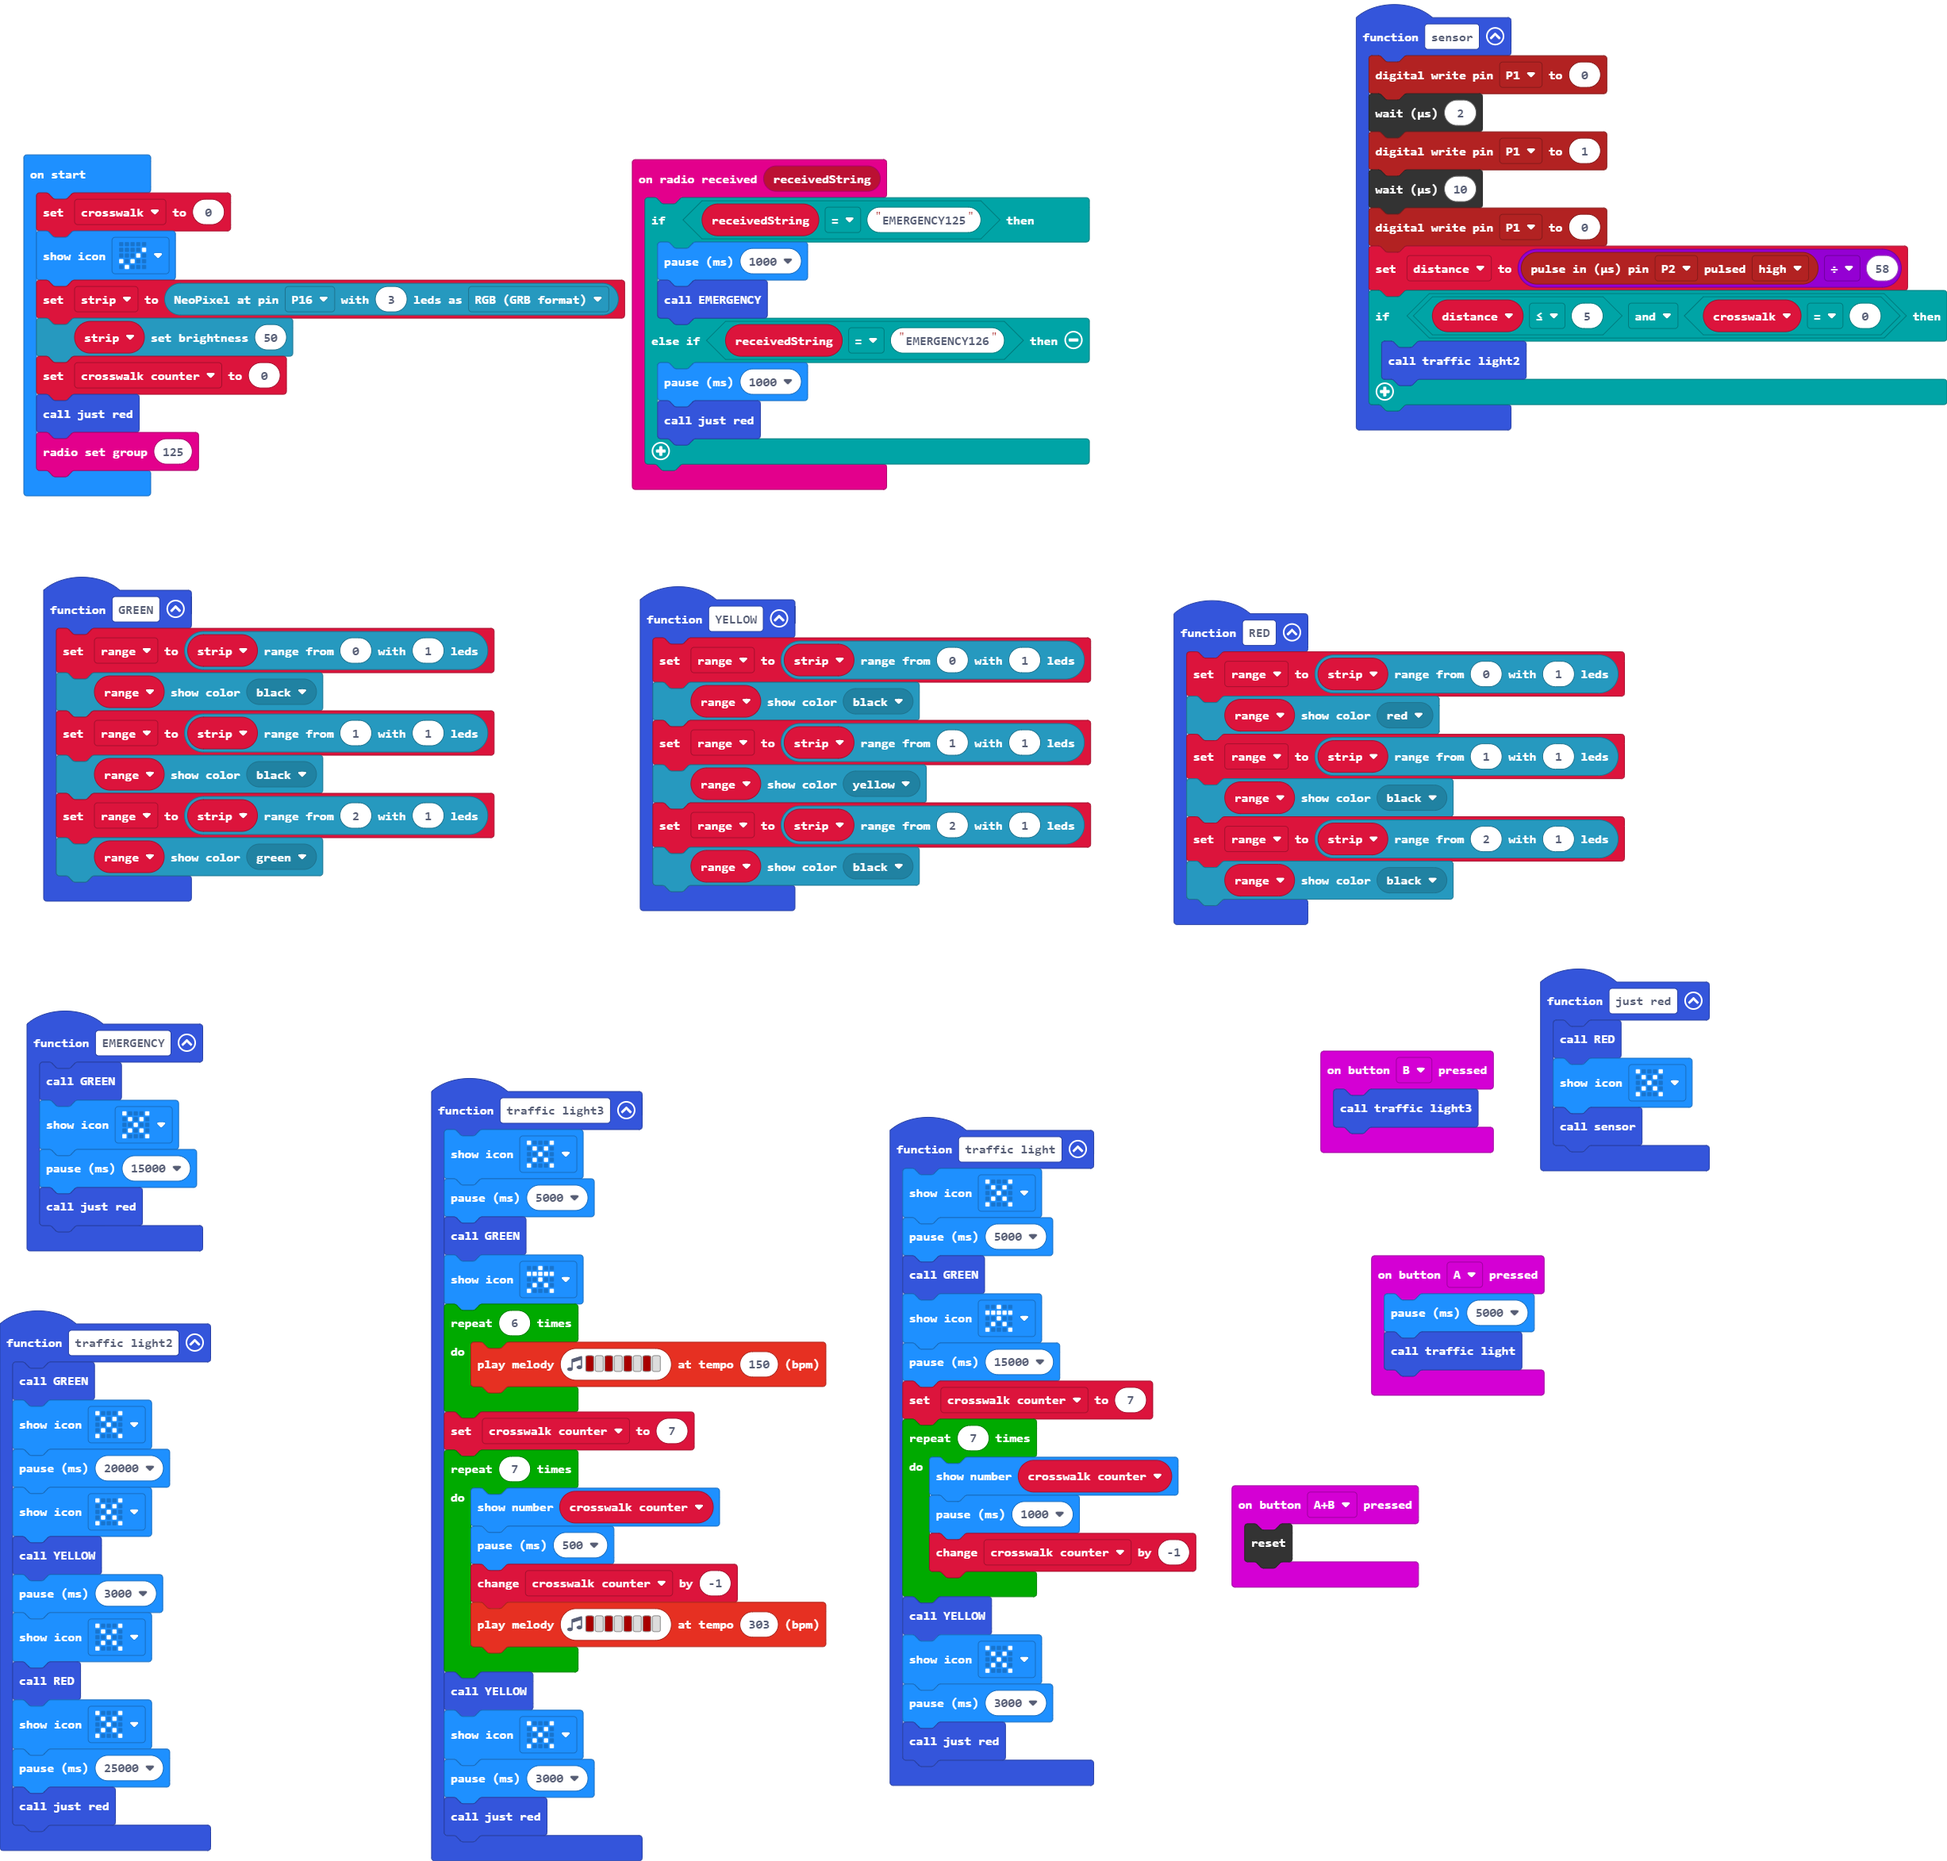
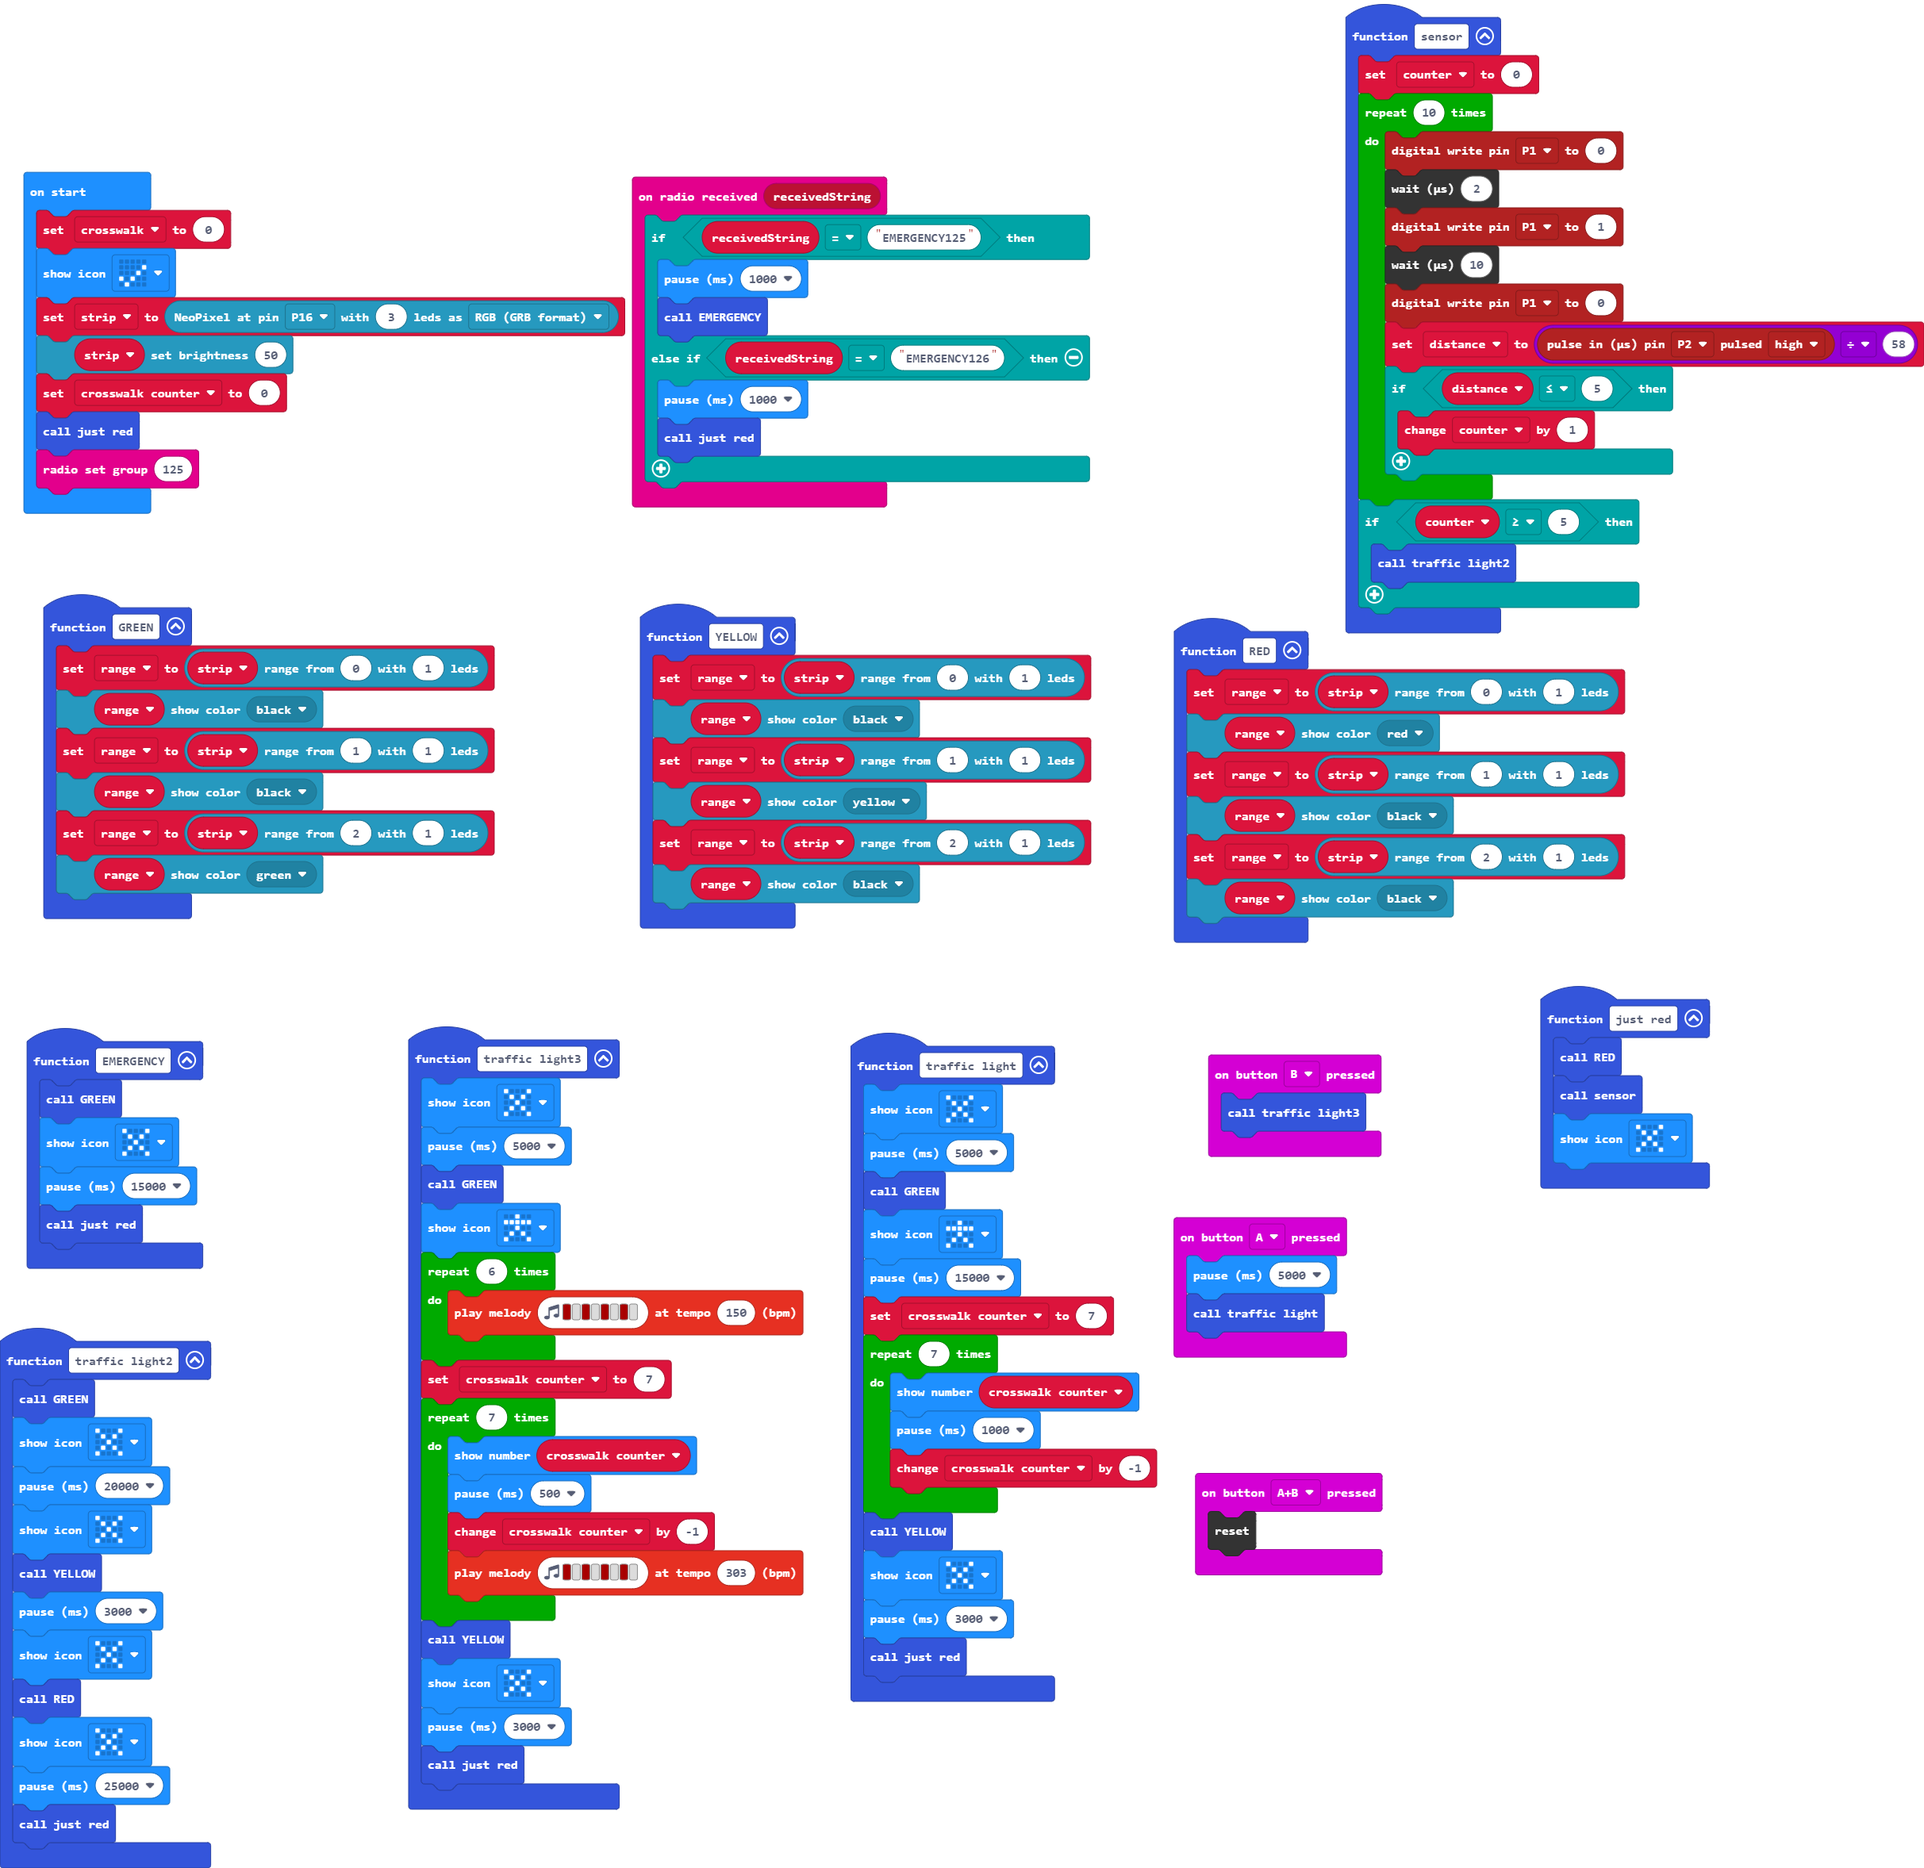
Update main.blocks, main.ts

diff --git a/main.ts b/main.ts
@@ -49,8 +49,8 @@ function RED () {
 }
 function just_red () {
     RED()
-    basic.showIcon(IconNames.No)
     sensor()
+    basic.showIcon(IconNames.No)
 }
 function traffic_light2 () {
     GREEN()
@@ -89,13 +89,19 @@ input.onButtonPressed(Button.B, function () {
     traffic_light3()
 })
 function sensor () {
-    pins.digitalWritePin(DigitalPin.P1, 0)
-    control.waitMicros(2)
-    pins.digitalWritePin(DigitalPin.P1, 1)
-    control.waitMicros(10)
-    pins.digitalWritePin(DigitalPin.P1, 0)
-    distance = pins.pulseIn(DigitalPin.P2, PulseValue.High) / 58
-    if (distance <= 5 && crosswalk == 0) {
+    counter = 0
+    for (let index = 0; index < 10; index++) {
+        pins.digitalWritePin(DigitalPin.P1, 0)
+        control.waitMicros(2)
+        pins.digitalWritePin(DigitalPin.P1, 1)
+        control.waitMicros(10)
+        pins.digitalWritePin(DigitalPin.P1, 0)
+        distance = pins.pulseIn(DigitalPin.P2, PulseValue.High) / 58
+        if (distance <= 5) {
+            counter += 1
+        }
+    }
+    if (counter >= 5) {
         traffic_light2()
     }
 }
@@ -114,11 +120,11 @@ function YELLOW () {
     range.showColor(neopixel.colors(NeoPixelColors.Black))
 }
 let distance = 0
+let counter = 0
 let range: neopixel.Strip = null
 let crosswalk_counter = 0
 let strip: neopixel.Strip = null
 let crosswalk = 0
-crosswalk = 0
 basic.showIcon(IconNames.Yes)
 strip = neopixel.create(DigitalPin.P16, 3, NeoPixelMode.RGB)
 strip.setBrightness(50)
